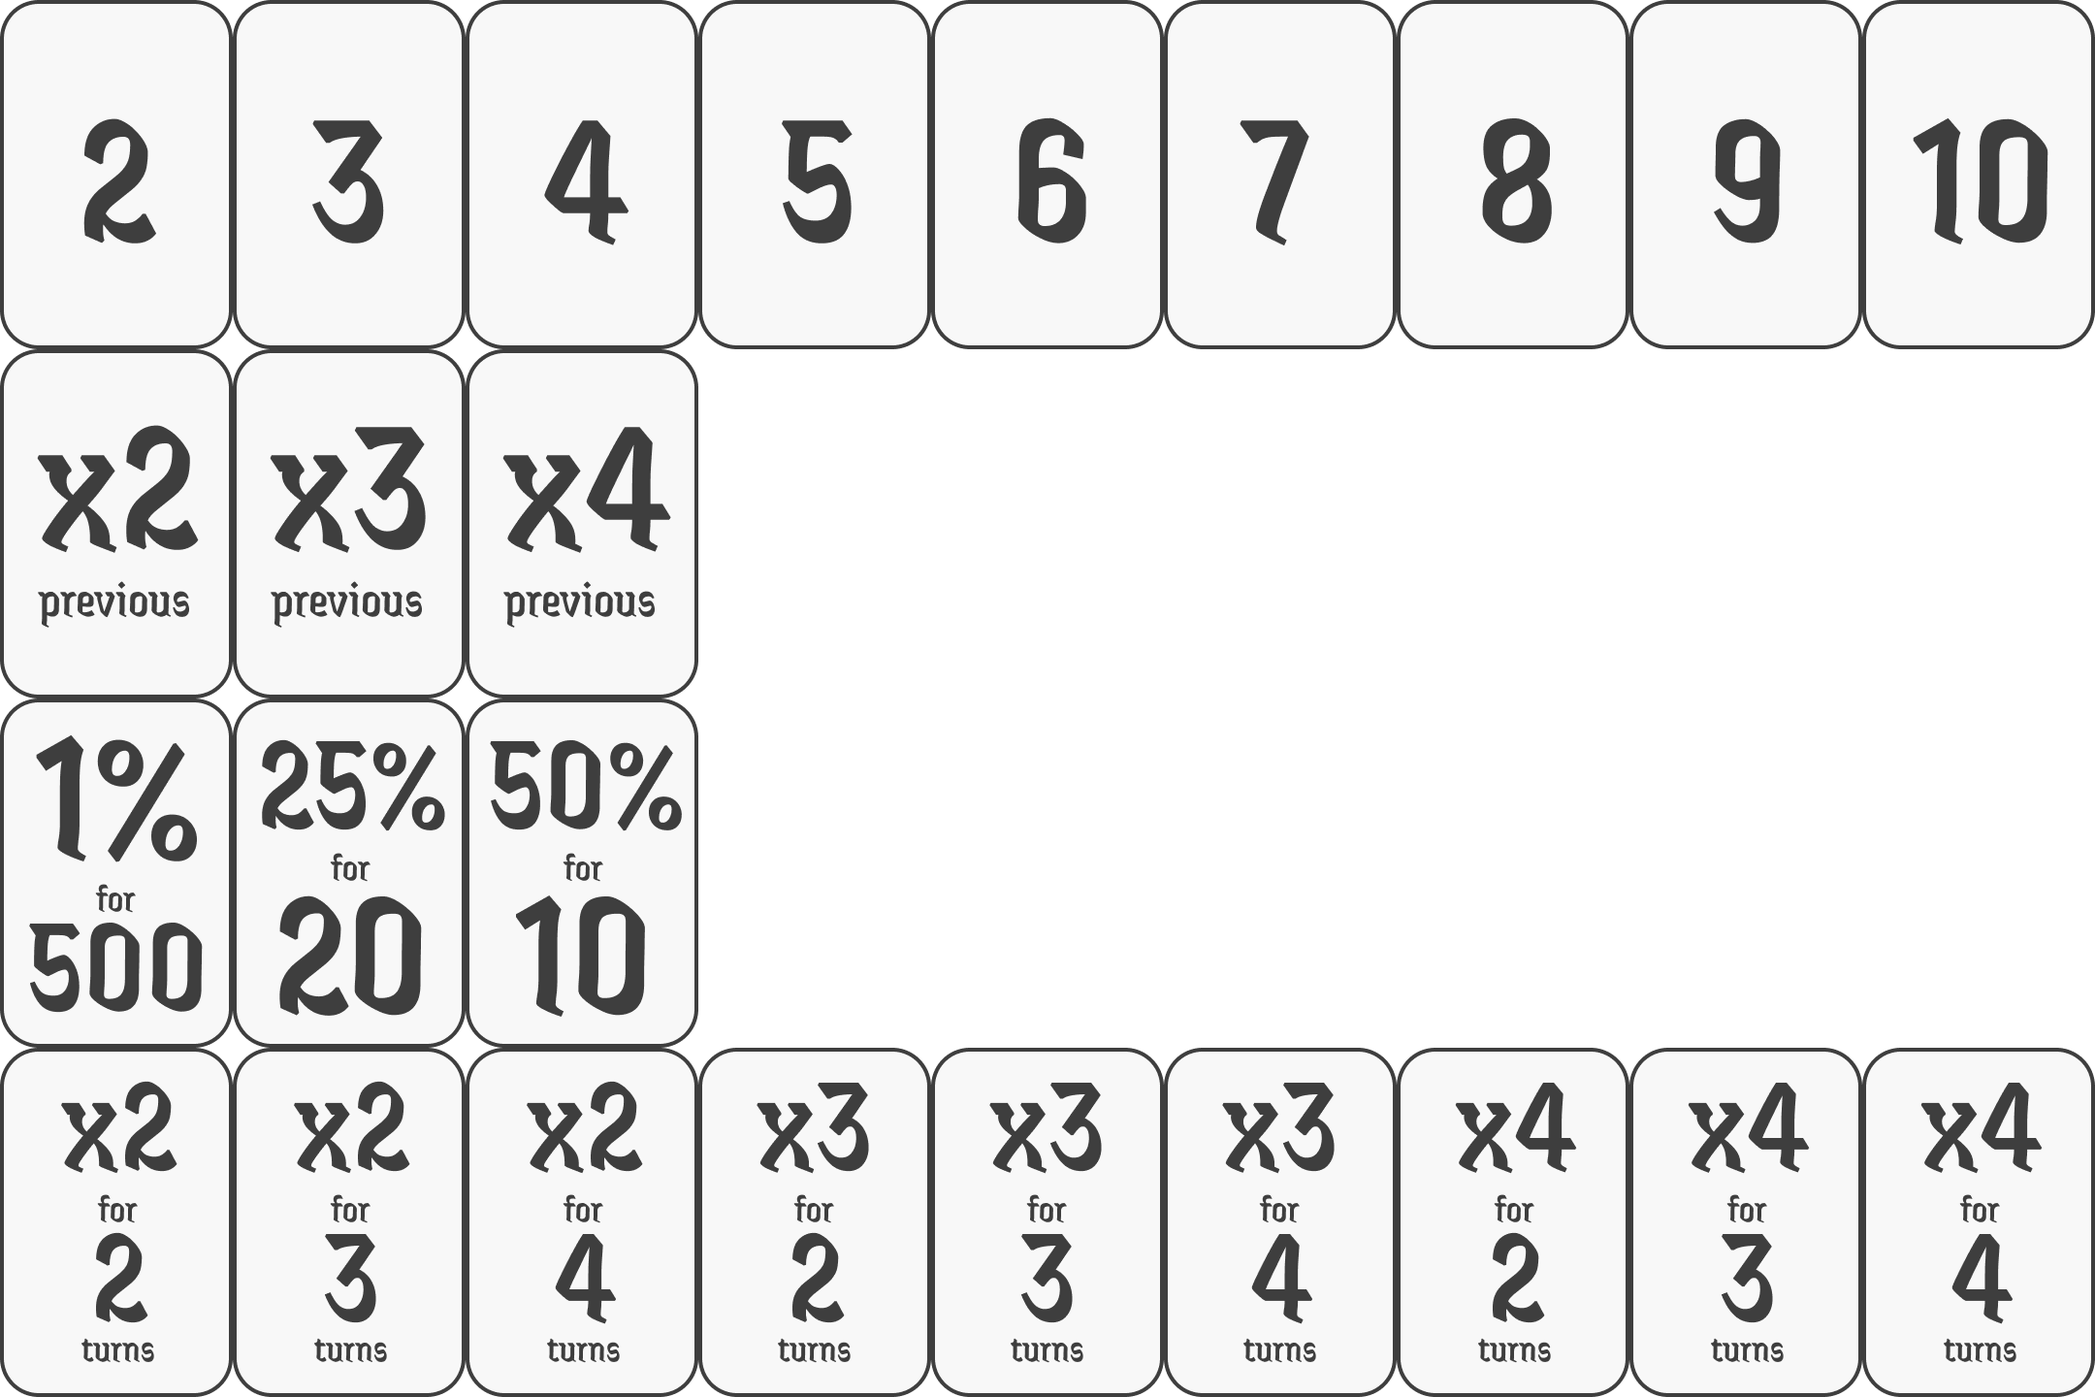
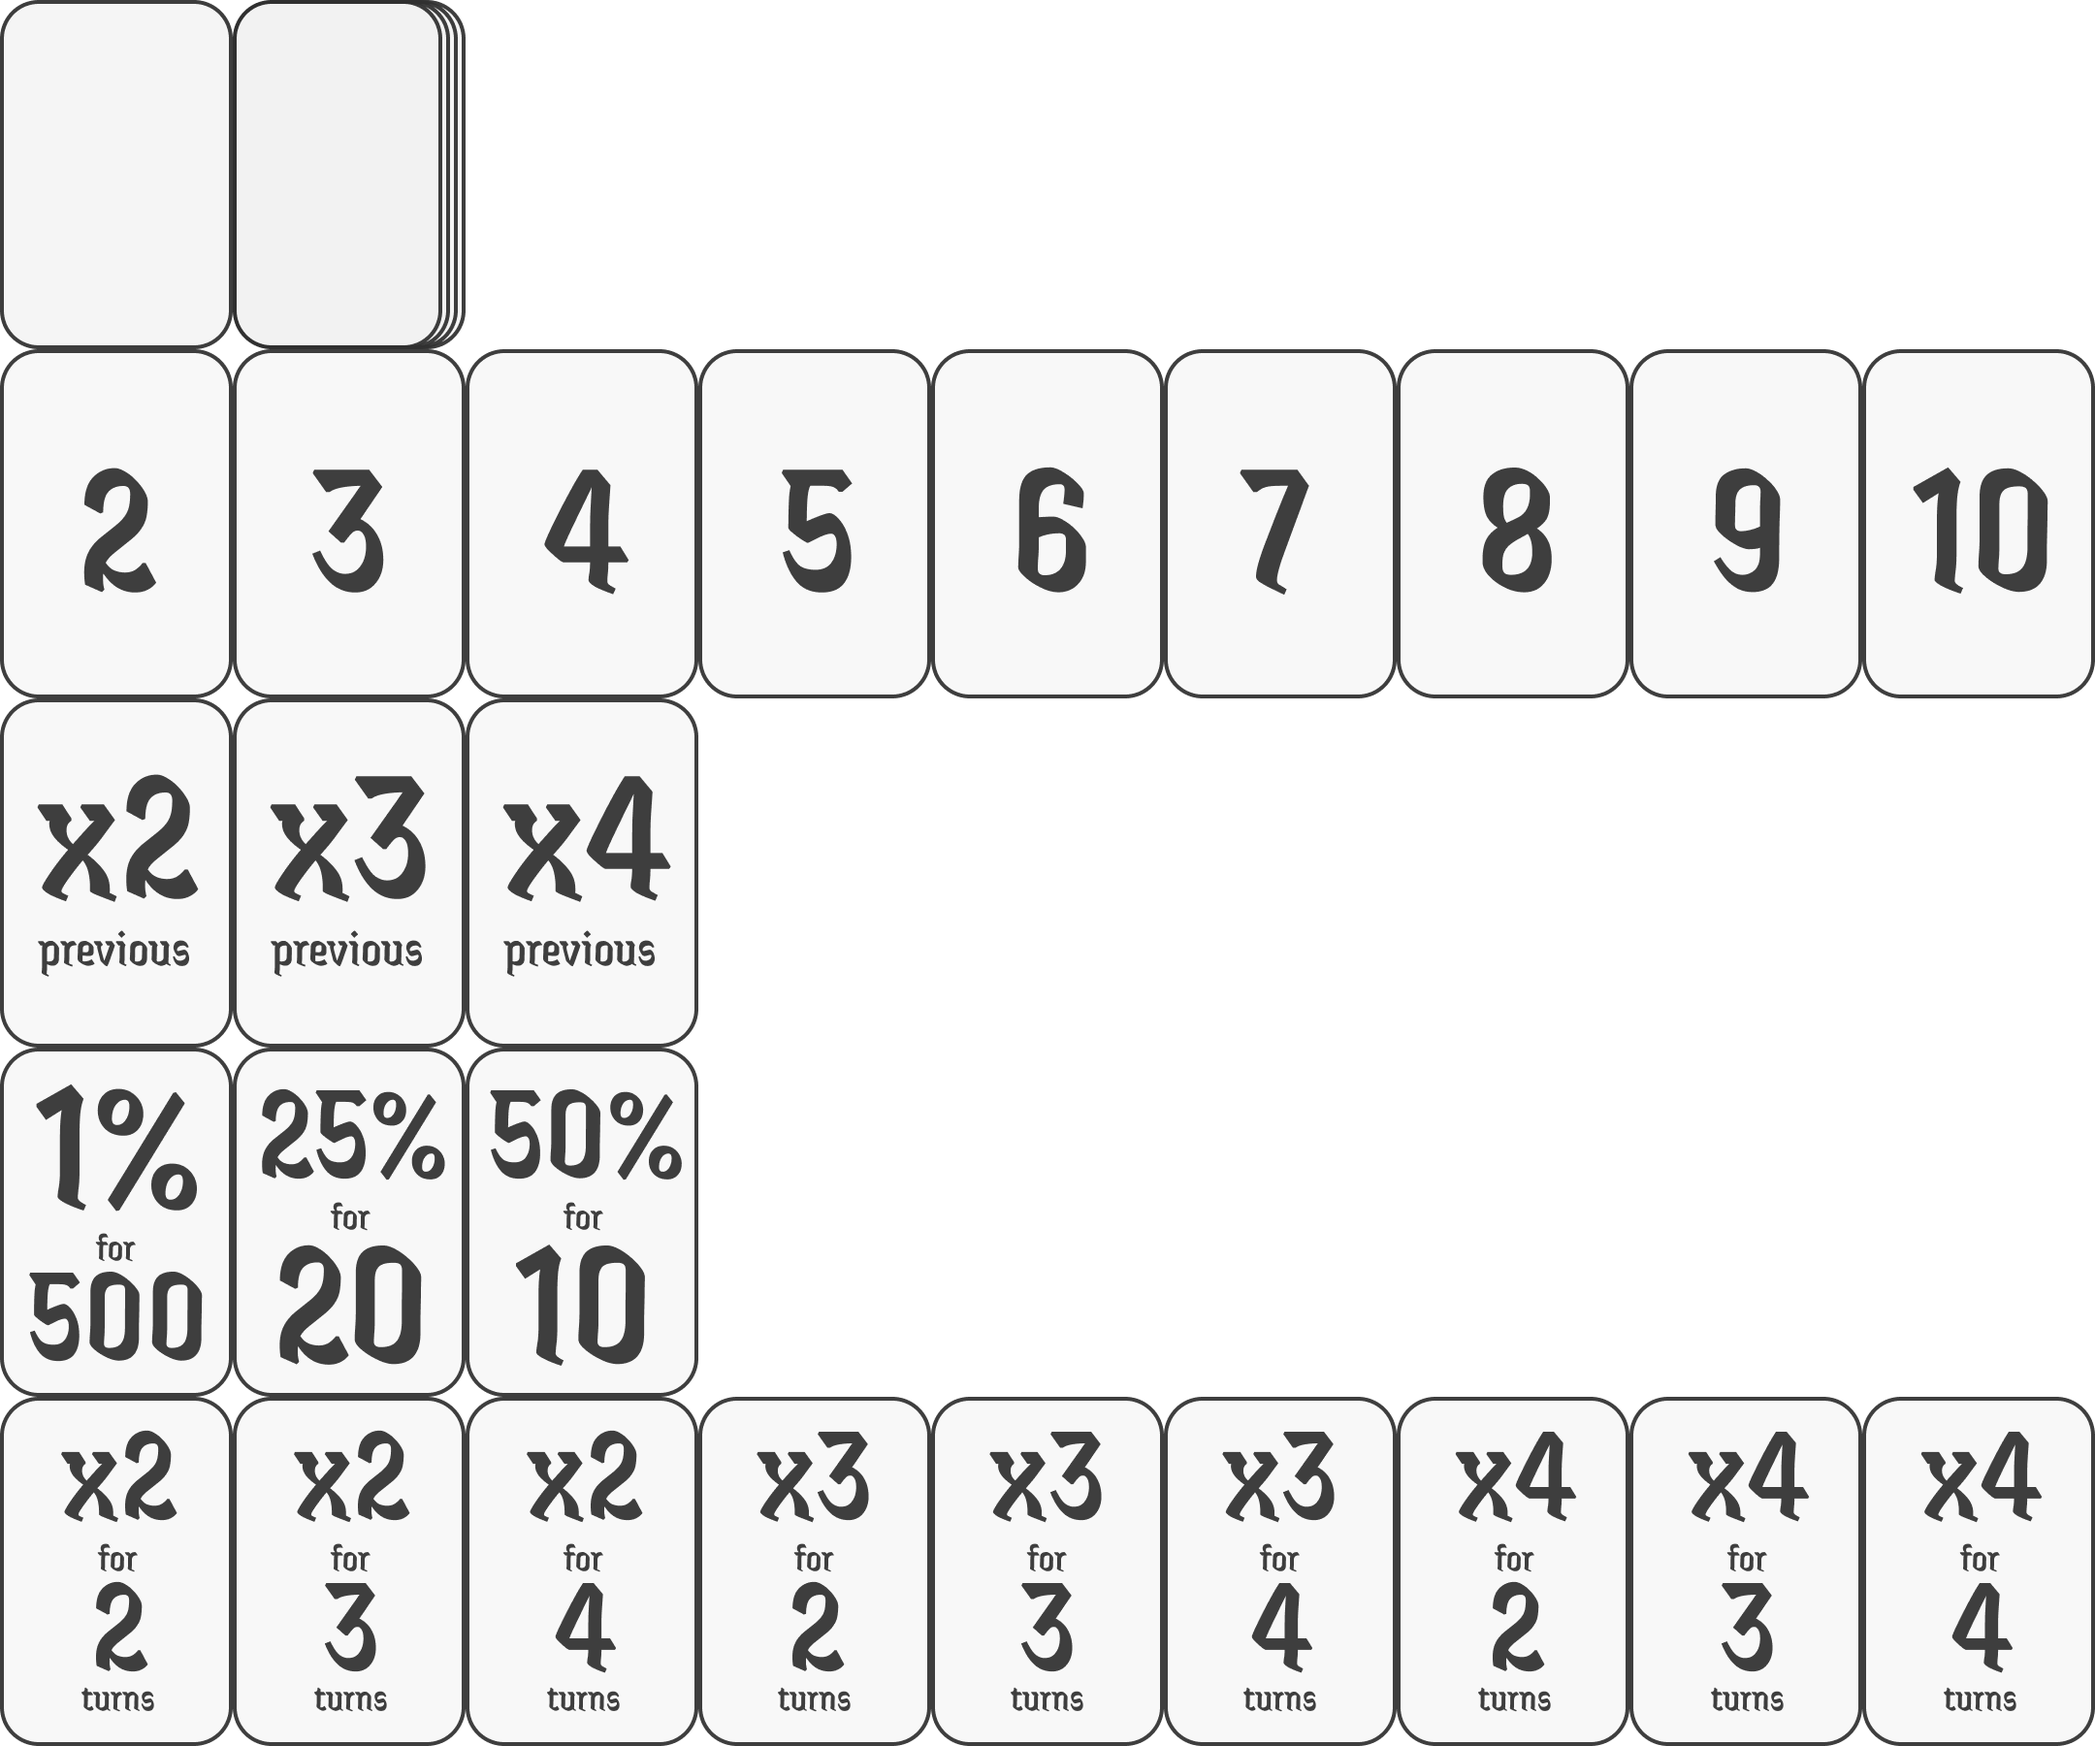
Converting all functions to be inside classes

diff --git a/game/game.js b/game/game.js
@@ -5,12 +5,40 @@
 class Cards{
 
     //Creates a card
-    constructor(type,numVal,strVal,index){
-        this.type = type;
-        this.num = numVal;
-        this.str = strVal;
-        this.index = index;
-        this.cost = null;
+    constructor(){
+    }
+
+    //Sets the info of the card
+    setInfo(isBack,type,numVal,strVal,index){
+        if(isBack){
+            this.index = index;
+        } else {
+            this.type = type;
+            this.num = numVal;
+            this.str = strVal;
+            this.index = index;
+            this.cost = null;
+        }
+    }
+
+    makeRandomCard(allCards,maxPoints){
+
+        //Gets a random kind of card
+        var info = allCards[Math.floor(Math.random()*allCards.length)];
+
+        //Extracts all the info from the card
+        var type = info.type;
+        var index = Math.floor(Math.random()*info.num.length);
+
+        var num = info.num[index];
+        var str = info.str[Math.floor(Math.random()*info.str.length)];
+
+        var cost = Math.ceil(((index+1) * info.cost)/2) * Math.ceil((maxPoints + 1)/8);
+
+        //Sets the card's properties
+        this.setInfo(false,type,num,str,index);
+        this.setCost(cost);
+
     }
 
     //Sets the card's cost
@@ -20,9 +48,10 @@ class Cards{
 
     //Deep copies a card
     deepCopy(){
-        return {type:this.type, num:this.num, str:this.str, cost:this.cost};
+        return {type:this.type, num:this.num, str:this.str, cost:this.cost, index:this.index};
     }
 
+    //Draws the card onto the screen
     draw(xPos,yPos){
 
         //Gets html elements
@@ -34,32 +63,36 @@ class Cards{
         var xCard = 0;
         var yCard = 0;
         if(this.type == "num"){
-            yCard = 0
-        }
-        if(this.type == "multPrev"){
             yCard = 1
         }
-        if(this.type == "chance"){
+        if(this.type == "multPrev"){
             yCard = 2
         }
-        if(this.type == "multNext"){
+        if(this.type == "chance"){
             yCard = 3
         }
+        if(this.type == "multNext"){
+            yCard = 4
+        }
         
-        xCard = this.id
+        xCard = this.index
 
         //Creating the card
         var card = cardCopy.cloneNode(true)
 
         //Displays which card it is
-        card.style.backgroundPositionX = "" + 10*xCard + "rem"
-        card.style.backgroundPositionY = "" + 15*yCard + "rem"
+        card.style.backgroundPositionX = "" + -10*xCard + "rem"
+        card.style.backgroundPositionY = "" + -15*yCard + "rem"
 
         //Puts where the card is on the screen
+        card.style.position = "absolute"
         card.style.left = "" + xPos + "rem"
         card.style.top = "" + yPos + "rem"
 
-        target.append(currentCardDisplay)
+        console.log("" + xPos + "rem" + " " + yPos + "rem")
+
+        target.append(card)
+
     }
 }
 
@@ -98,7 +131,9 @@ var createStartingCards = function(allCards){
     var current = allCards[0];
 
     for(var i = 0; i < current.num.length; i++){
-        cards.push(new Cards(current.type,current.num[i],current.str[0],i));
+        var cardTemp = new Cards()
+        cardTemp.setInfo(false,current.type,current.num[i],current.str[0],i)
+        cards.push(cardTemp);
     }
 
     
@@ -114,28 +149,15 @@ var deepCopyCardList = function(cards){
     }
 }
 
-//Gets a random card
-var getRandomCard = function(allCards,maxPoints){
-    
-    var currentCard = allCards[Math.floor(Math.random()*allCards.length)];
-
-    var type = currentCard.type;
-    var numSelect = Math.floor(Math.random()*currentCard.num.length);
-    var num = currentCard.num[numSelect];
-    var str = currentCard.str[Math.floor(Math.random()*currentCard.str.length)];
-
-    var card = new Cards(type,num,str,numSelect);
-
-    var cost = Math.ceil(((numSelect+1) * currentCard.cost)/2) * Math.ceil((maxPoints + 1)/8);
-    card.setCost(cost);
-    return card;
-}
-
 //Gets n random cards (which is used to refresh the shop)
 var refresh = function(allCards,maxPoints,num){
     var cards = [];
     for(var i = 0; i < num; i++){
-        cards.push(getRandomCard(allCards,maxPoints));
+
+        var cardTemp = new Cards()
+        cardTemp.makeRandomCard(allCards,maxPoints)
+
+        cards.push(cardTemp);
     }
     return cards;
 };
@@ -227,6 +249,10 @@ var state = {
 var totalPoints = 0
 var maxPoints = 0
 
-var temp = document.getElementById("temp");
-var target = document.getElementById("target")
-var cardDisplay = temp.querySelector(".Card");
+
+//Testing drawing cards
+var testing = refresh(allCards,maxPoints,100);
+
+for(var i = 0; i < testing.length; i++){
+    testing[i].draw(10*(i%10),15*Math.floor(i/10))
+}

diff --git a/game/style2.css b/game/style2.css
@@ -1,4 +1,4 @@
-body{background-color: rgb(249, 181, 181)}
+body{background-color: rgb(152, 255, 183)}
 
 body *{
     display: inline-block;
@@ -6,13 +6,12 @@ body *{
 }
 
 #temp{
-    border: 10px solid;
+    display:none;
 }
 
 .Card{
     width: 10rem;
     height: 15rem;
-    background-color:blue;
     background-image: url(Cards.png);
     background-size: 900%;
     background-position: 0rem 0rem;
